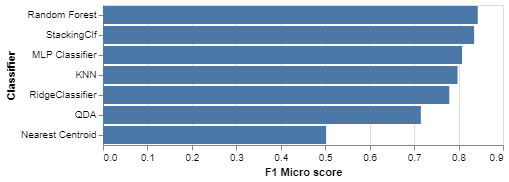
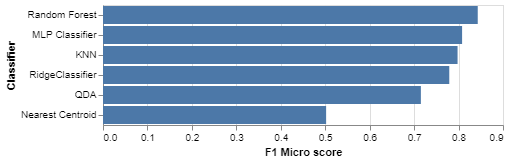
update dependecies in scrit

diff --git a/src/fit_wine_quality_predict_model.py b/src/fit_wine_quality_predict_model.py
@@ -25,23 +25,18 @@ import numpy as np
 import pandas as pd
 import altair as alt
 
-# data
+# Sklearn dependencies
 from sklearn import datasets
 from sklearn.compose import ColumnTransformer, make_column_transformer
-from sklearn.dummy import DummyClassifier, DummyRegressor
-from sklearn.ensemble import (RandomForestClassifier, RandomForestRegressor, VotingClassifier, StackingClassifier)
+from sklearn.ensemble import RandomForestClassifier
 from sklearn.feature_extraction.text import CountVectorizer
-
-# Feature selection
-from sklearn.feature_selection import RFE, RFECV
 from sklearn.impute import SimpleImputer
-
-# classifiers / models
 from sklearn.linear_model import RidgeClassifier
-from sklearn.linear_model import LogisticRegression
-
-# other
-from sklearn.metrics import accuracy_score, log_loss, make_scorer, mean_squared_error, plot_confusion_matrix
+from sklearn.metrics import (accuracy_score, 
+    log_loss, make_scorer, 
+    mean_squared_error, 
+    plot_confusion_matrix
+)
 from sklearn.model_selection import (
     GridSearchCV,
     RandomizedSearchCV,
@@ -63,8 +58,6 @@ from sklearn.neighbors import NearestCentroid
 from sklearn.discriminant_analysis import QuadraticDiscriminantAnalysis
 from sklearn.model_selection import cross_val_predict
 from sklearn.metrics import plot_precision_recall_curve, plot_roc_curve
-from sklearn.svm import SVC
-from catboost import CatBoostClassifier
 from selenium import webdriver
 from webdriver_manager.chrome import ChromeDriverManager
 from altair_saver import save
@@ -97,27 +90,6 @@ def main(in_file_1, out_dir):
     # Model selection
     results={}
     scoring_metric = {'f1_micro'}
-
-    pipe_rf = make_pipeline(preprocessor, RandomForestClassifier(bootstrap=False, max_depth=20,
-                                        max_features='sqrt', n_estimators=1800,
-                                        random_state=123))
-    pipe_catboost = make_pipeline(preprocessor, CatBoostClassifier(verbose=0, random_state=123))
-    pipe_svc = make_pipeline(preprocessor, SVC(probability=True))
-    classifiers = {
-        "svm": pipe_svc,
-        'random forest' : pipe_rf,
-        'CatBoost' : pipe_catboost,
-    }
-
-    stacking_model = StackingClassifier(list(classifiers.items()), 
-                     final_estimator=RandomForestClassifier())
-    results['StackingClf'] = mean_std_cross_val_scores(stacking_model, 
-                                                        X_train, 
-                                                        y_train, 
-                                                        return_train_score=True, 
-                                                        scoring=scoring_metric)
-    
-    # Model selection plot
     classifiers_plot = {
         "RidgeClassifier": RidgeClassifier(random_state=123),
         "Random Forest":RandomForestClassifier(bootstrap=False, max_depth=20,
